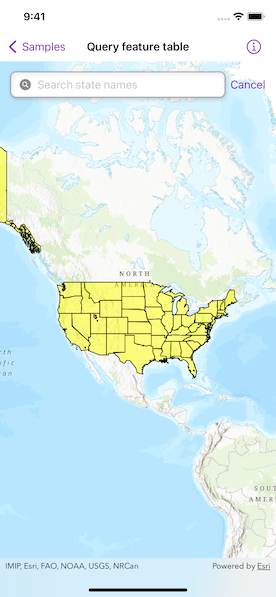
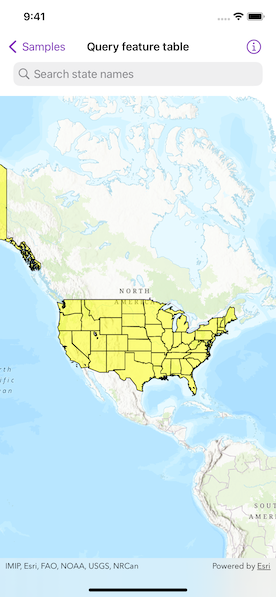
PR review comments

Changed region(s): [[0.0, 0.0905, 1.0, 0.9347], [0.0, 0.603, 0.058, 0.6633], [0.9855, 0.3015, 1.0, 0.3618]]

diff --git a/Shared/Samples/Query feature table/QueryFeatureTableView.swift b/Shared/Samples/Query feature table/QueryFeatureTableView.swift
@@ -27,65 +27,46 @@ struct QueryFeatureTableView: View {
         didSet { isShowingAlert = error != nil }
     }
     
-    /// The string used to query the feature table.
-    @State private var query = ""
-    
-    /// A Boolean value indicating if the search field has focus.
-    @FocusState private var searchFieldIsFocused: Bool
+    /// The text in the search bar.
+    @State private var searchBarText = ""
     
     var body: some View {
         MapViewReader { mapViewProxy in
-            MapView(map: model.map, viewpoint: .statesViewpoint)
+            MapView(map: model.map)
                 .alert(isPresented: $isShowingAlert, presentingError: error)
-                .overlay(alignment: .topTrailing) {
-                    HStack {
-                        SearchField(
-                            query: $model.currentQuery,
-                            prompt: "Search state names",
-                            isResultsButtonHidden: true,
-                            isResultListHidden: nil
-                        )
-                        .focused($searchFieldIsFocused)
-                        .onSubmit {
-                            // Set the query string when the search button is tapped.
-                            query = model.currentQuery
-                        }
-                        .submitLabel(.search)
-                        Button("Cancel") {
-                            // Hide keyboard.
-                            searchFieldIsFocused = false
-                        }
-                    }
-                    .padding()
-                }
-                .task(id: query) {
-                    // Makes sure we have a query string and a layer.
-                    guard !query.isEmpty, let featureLayer = model.featureLayer else { return }
-                    // Unselect all selected features.
-                    featureLayer.unselectFeatures(model.selectedFeatures)
-                    model.selectedFeatures.removeAll()
-                    // Make the query parameters and execute the query.
+                // Makes the search bar.
+                .searchable(text: $searchBarText, prompt: Text("Search state names"))
+                .onSubmit(of: .search, {
+                    model.currentQuery = searchBarText
+                })
+                // A task that runs when the query text changes.
+                .task(id: model.currentQuery) {
+                    // Makes sure we have a query string.
+                    guard !model.currentQuery.isEmpty else { return }
+                    // Unselects all selected features.
+                    model.featureLayer.clearSelection()
+                    // Makes the query parameters and executes the query.
                     let queryParameters = QueryParameters()
-                    queryParameters.whereClause = "upper(STATE_NAME) LIKE '%\(query.uppercased())%'"
+                    queryParameters.whereClause = "upper(STATE_NAME) LIKE '%\(model.currentQuery.uppercased())%'"
                     do {
                         let queryResult = try await model.featureTable.queryFeatures(using: queryParameters)
-                        model.selectedFeatures = Array(queryResult.features())
-                        if !model.selectedFeatures.isEmpty {
-                            // Display the selection.
-                            featureLayer.selectFeatures(model.selectedFeatures)
-                            // Zoom to selected feature.
-                            if let featureGeometry = model.selectedFeatures.first?.geometry {
-                                try await mapViewProxy.setViewpointGeometry(featureGeometry, padding: 25)
+                        let queryResultFeatures = Array(queryResult.features())
+                        if !queryResultFeatures.isEmpty {
+                            // Displays the selection.
+                            model.featureLayer.selectFeatures(queryResultFeatures)
+                            // Zooms to the selected features.
+                            if let combinedExtent = GeometryEngine.combineExtents(of: queryResultFeatures.compactMap(\.geometry)) {
+                                await mapViewProxy.setViewpointGeometry(combinedExtent, padding: 25)
                             }
                         } else {
-                            // If the query returned no features then zoom
+                            // If the query returned no features then zooms
                             // to the extent of the layer.
-                            if let layerExtent = featureLayer.fullExtent {
-                                try await mapViewProxy.setViewpointGeometry(layerExtent, padding: 50)
+                            if let layerExtent = model.featureLayer.fullExtent {
+                                await mapViewProxy.setViewpointGeometry(layerExtent, padding: 50)
                             }
                         }
                     } catch {
-                        // Display error as an alert.
+                        // Displays the error as an alert.
                         self.error = error
                     }
                 }
@@ -96,40 +77,47 @@ struct QueryFeatureTableView: View {
 private extension QueryFeatureTableView {
     class Model: ObservableObject {
         /// A map with a topographic basemap style.
-        let map = Map(basemapStyle: .arcGISTopographic)
-        
+        let map: Map = {
+            let map = Map(basemapStyle: .arcGISTopographic)
+            map.initialViewpoint = Viewpoint(
+                center: Point(x: -11e6, y: 5e6, spatialReference: .webMercator),
+                scale: 9e7
+            )
+            return map
+        }()
+
+        /// The text used in the query.
         @Published var currentQuery = ""
         
-        var selectedFeatures: [Feature] = []
-        
-        // Create a feature table using a url.
+        /// A feature table of US Daytime Population Census Tracts.
         let featureTable = ServiceFeatureTable(
-            url: URL(string: "https://services.arcgis.com/jIL9msH9OI208GCb/arcgis/rest/services/USA_Daytime_Population_2016/FeatureServer/0")!
+            item: PortalItem(
+                portal: .arcGISOnline(connection: .anonymous),
+                id: .daytimePopulation
+            )
         )
-        var featureLayer: FeatureLayer?
+
+        /// A feature layer created from the service feature table.
+        let featureLayer: FeatureLayer
         
         init() {
-            // Create a feature layer from feature table.
+            // Creates a feature layer from feature table.
             featureLayer = FeatureLayer(featureTable: featureTable)
-            if let featureLayer {
-                // Show the layer at all scales.
-                featureLayer.minScale = nil
-                featureLayer.maxScale = nil
-                
-                // Set a new renderer.
-                let lineSymbol = SimpleLineSymbol(style: .solid, color: .black, width: 1)
-                let fillSymbol = SimpleFillSymbol(style: .solid, color: UIColor.yellow.withAlphaComponent(0.5), outline: lineSymbol)
-                featureLayer.renderer = SimpleRenderer(symbol: fillSymbol)
-                // Add the feature layer to the map.
-                map.addOperationalLayer(featureLayer)
-            }
+            // Shows the layer at all scales.
+            featureLayer.minScale = nil
+            featureLayer.maxScale = nil
+            
+            // Sets a new renderer on the feature layer.
+            let lineSymbol = SimpleLineSymbol(style: .solid, color: .black, width: 1)
+            let fillSymbol = SimpleFillSymbol(style: .solid, color: .yellow.withAlphaComponent(0.5), outline: lineSymbol)
+            featureLayer.renderer = SimpleRenderer(symbol: fillSymbol)
+            // Adds the feature layer to the map.
+            map.addOperationalLayer(featureLayer)
         }
     }
 }
 
-private extension Viewpoint {
-    /// The initial viewpoint.
-    static var statesViewpoint: Viewpoint {
-        Viewpoint(center: Point(x: -11e6, y: 5e6, spatialReference: .webMercator), scale: 9e7)
-    }
+private extension PortalItem.ID {
+    /// The portal item ID of a USA 2016 Daytime Population feature layer.
+    static var daytimePopulation: Self { Self("f01f0eda766344e29f42031e7bfb7d04")! }
 }
